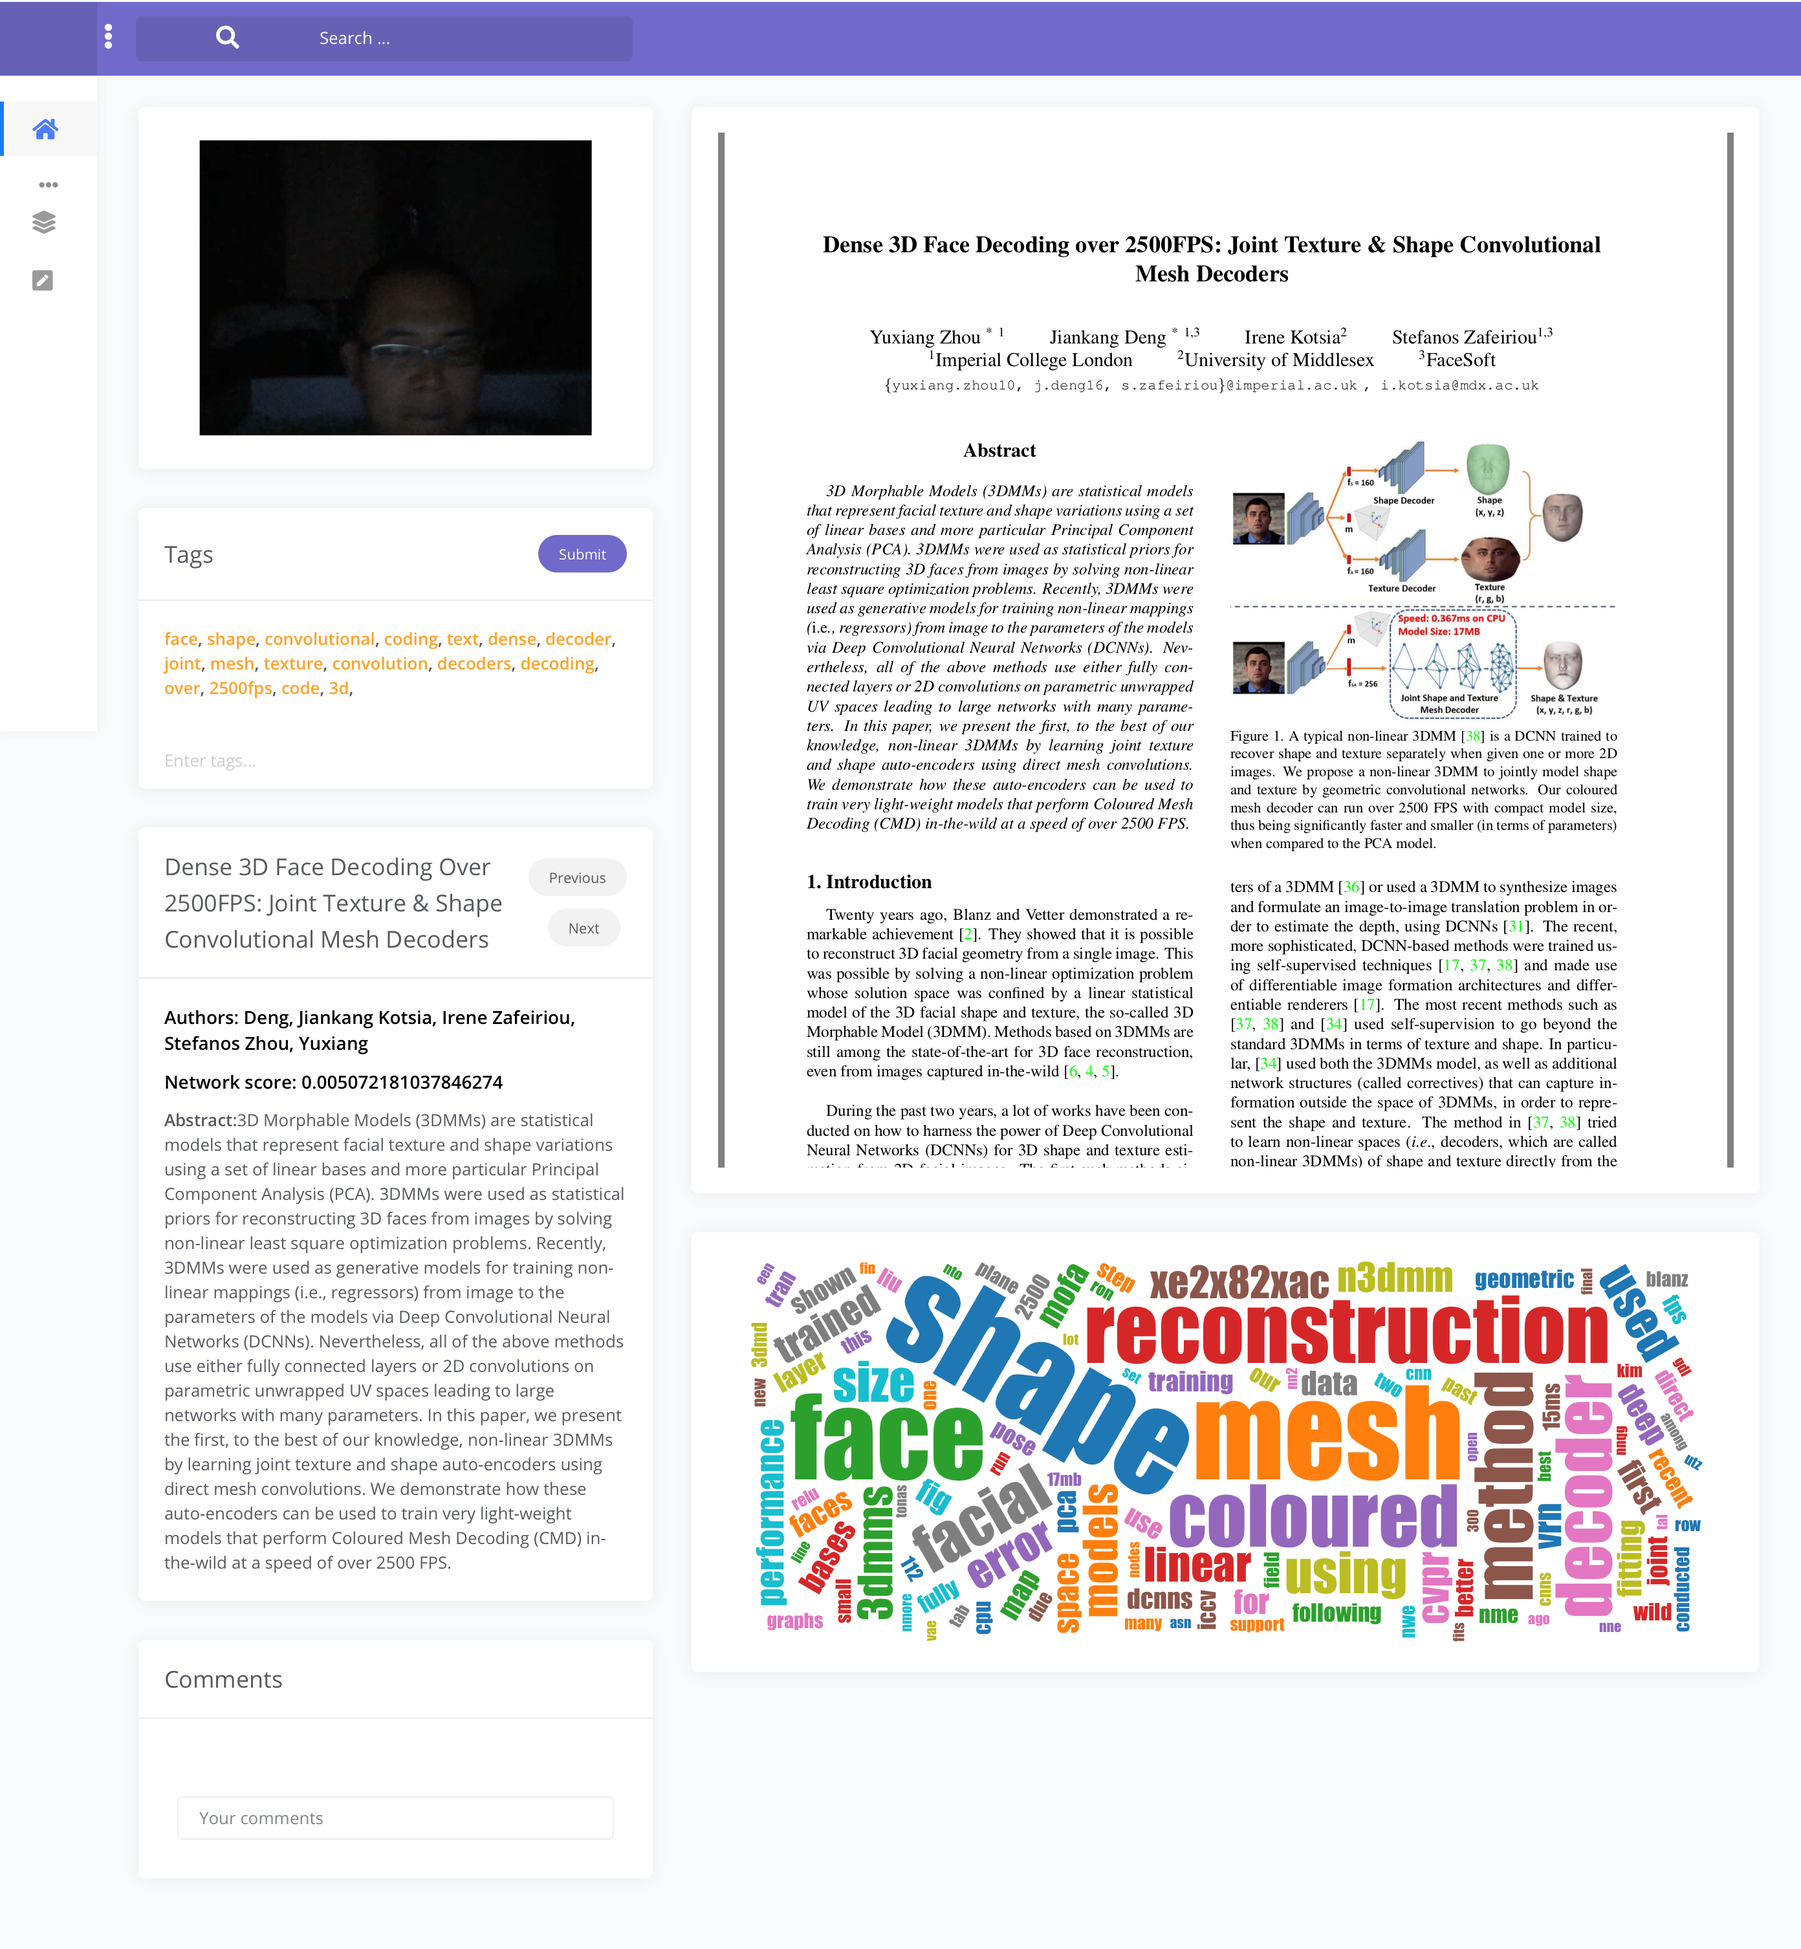
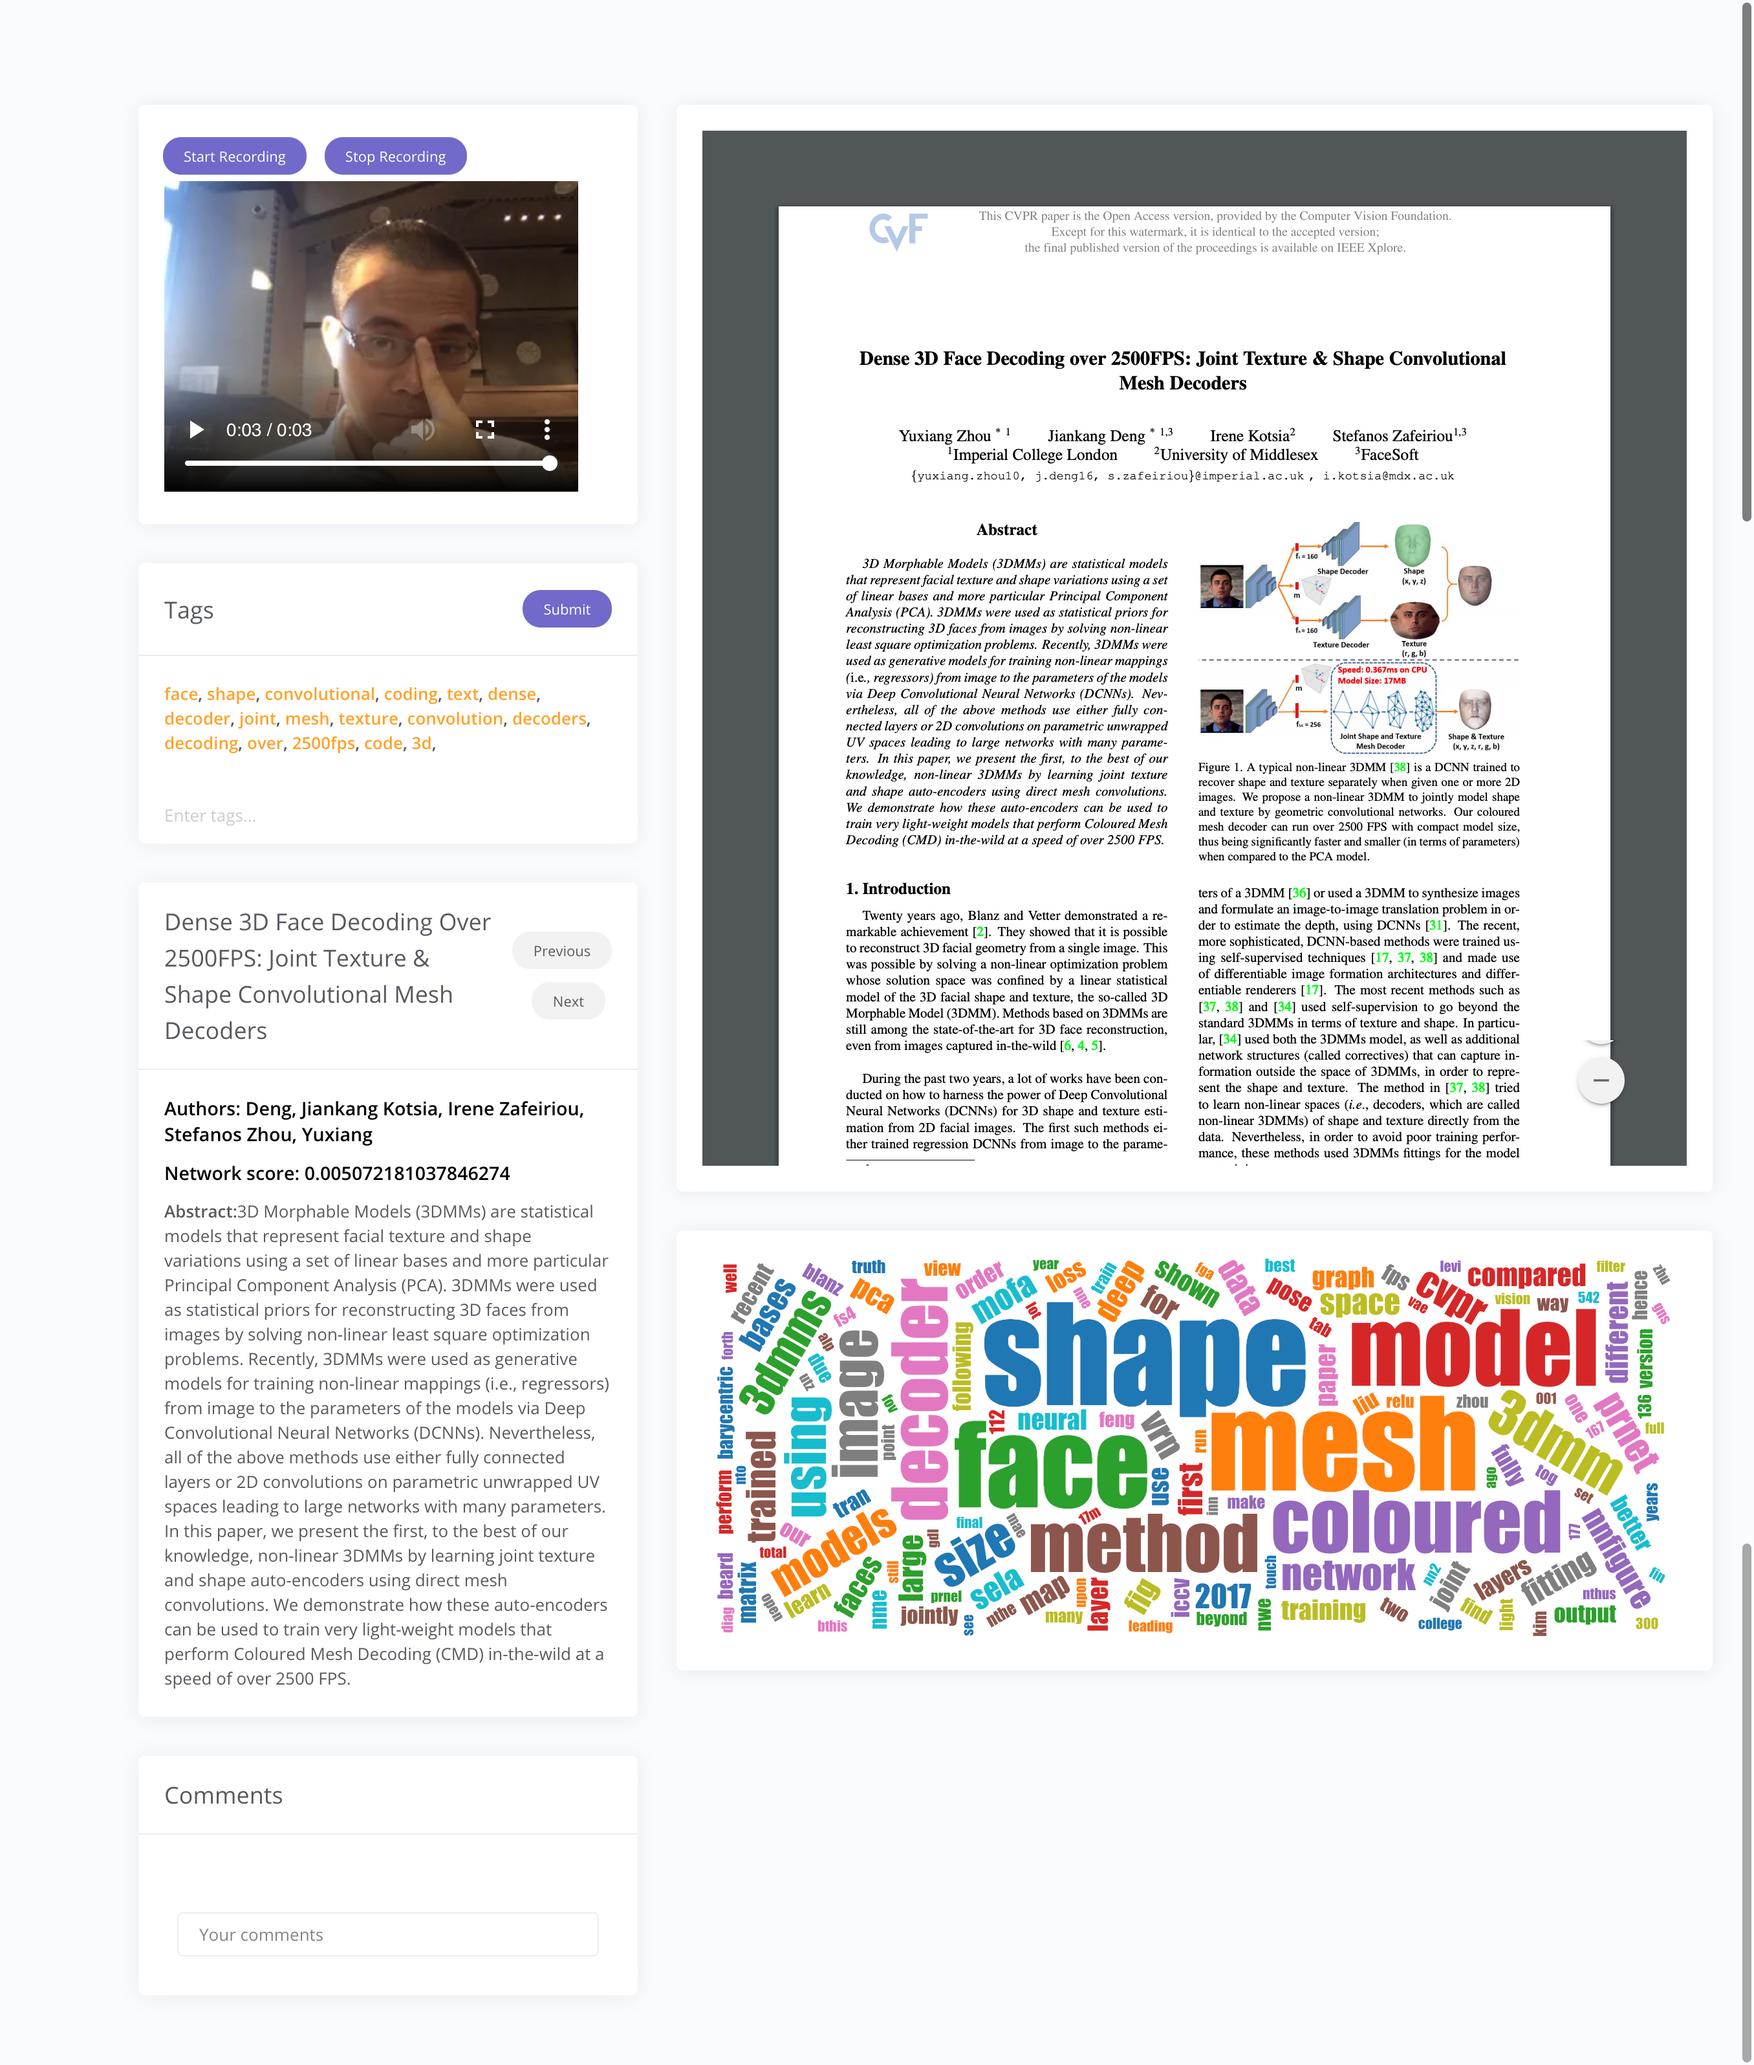
updated to WebRTC for better capturing features

diff --git a/crawler/templates/reader.html b/crawler/templates/reader.html
@@ -14,8 +14,15 @@ Reader
 			<div class="col-md-4">
 				<div class="card">
 					<div class="card-body">
-						<center><div id="camera" style="width:100%; height:240px;"></div></center>
-						<div id="monitor_result"></div>
+						<ul class="nav nav-pills nav-secondary nav-pills-no-bd nav-sm" id="pills-tab" role="tablist">
+									<li class="nav-item submenu">
+						<button id="btn-start-recording" class="nav-link active show">Start Recording</button>
+									</li>
+									<li class="nav-item submenu">
+						<button id="btn-stop-recording" disabled class="nav-link active show">Stop Recording</button>
+									</li>
+						</ul>
+						<video controls autoplay playsinline></video>
 					</div>
 				</div>
 				<div class="card">
@@ -36,23 +43,6 @@ Reader
 						<div class="form-group" id="tags"></div>
 					</div>
 				</div>
-				<!--div class="card">
-					<div class="card-header">
-						<div class="card-head-row">
-							<div class="card-title">Comments</div>
-						</div>
-					</div>
-					<div class="card-body">
-						<div class="form-group">
-							<div class="input-group">
-								<div class="input-group-prepend">
-									<span class="input-group-text">With textarea</span>
-								</div>
-								<textarea class="form-control" aria-label="With textarea"></textarea>
-							</div>
-						</div>		
-					</div>
-				</div-->
 				<div class="card">
 					<div class="card-header">
 						<div class="card-head-row">
@@ -115,6 +105,19 @@ Reader
 {% block js %}
 	<script src="{% static 'js/plugin/taggle.js/example/js/taggle.min.js' %}"></script>
 	<script src="{% static 'js/webcam.min.js' %}"></script>
+	<!-- web streams API polyfill to support Firefox -->
+    	<script src="https://unpkg.com/@mattiasbuelens/web-streams-polyfill/dist/polyfill.min.js"></script>
+
+    	<!-- ../libs/DBML.js to fix video seeking issues -->
+    	<script src="https://www.webrtc-experiment.com/EBML.js"></script>
+
+    	<!-- for Edge/FF/Chrome/Opera/etc. getUserMedia support -->
+    	<script src="https://webrtc.github.io/adapter/adapter-latest.js"></script>
+    	<script src="https://www.webrtc-experiment.com/DetectRTC.js"> </script>
+
+    	<!-- video element -->
+    	<link href="https://www.webrtc-experiment.com/getHTMLMediaElement.css" rel="stylesheet">
+    	<script src="https://www.webrtc-experiment.com/getHTMLMediaElement.js"></script>
 	<script type="text/javascript">
 		jQuery.curCSS = jQuery.css;
 		PDFObject.embed("/static/paper{{paper.id}}.pdf", "#example1");
@@ -174,25 +177,95 @@ Reader
    			}    
  
 		}());
-		/*tinyMCE.init({
-    			mode: "textareas",
-    			theme: "advanced",
-    			plugins: "spellchecker,directionality,paste,searchreplace",
-    			language: "{{ language }}",
-    			directionality: "{{ directionality }}",
-    			spellchecker_languages : "{{ spellchecker_languages }}",
-    			spellchecker_rpc_url : "{{ spellchecker_rpc_url }}"
-		});*/
 		$(document).ready(function() {
+			// Check whether the browser is Safari or not
+			var ua = navigator.userAgent.toLowerCase();
+			if (ua.indexOf('safari') != -1 && ua.indexOf('chrome') < 0) {
+				alert("WebRTC does not work well with Safari, switching to Chrome or Opera fo better experience");
+			}
 			$('#comment').keypress(function (e) {
   			if (e.which == 13) {
     				$('form').submit();
     				return false; 
 			}});
-			Webcam.attach('#camera');
+			//Webcam.attach('#camera');
+			var video = document.querySelector('video');
+			function captureCamera(callback) {
+    				navigator.mediaDevices.getUserMedia({ audio: true, video: true }).then(function(camera) {
+        				callback(camera);
+    				}).catch(function(error) {
+        				alert('Unable to capture your camera. Please check console logs.');
+        				console.error(error);
+    				});
+			}
+			function stopRecordingCallback() {
+    				video.src = video.srcObject = null;
+    				video.muted = false;
+    				video.volume = 1;
+    				video.src = URL.createObjectURL(recorder.getBlob());
+				let blob = recorder.getBlob();
+				invokeSaveAsDialog(blob);
+				recorder.camera.stop();
+    				recorder.destroy();
+    				recorder = null;
+			}
+			var recorder; // globally accessible
+			document.getElementById('btn-start-recording').onclick = function() {
+    				this.disabled = true;
+    				captureCamera(function(camera) {
+        			video.muted = true;
+        			video.volume = 0;
+        			video.srcObject = camera;
+        			recorder = RecordRTC(camera, {
+            				type: 'video',
+					mimeType: 'video/mp4',
+					recorderType: WhammyRecorder,
+        			});
+        			recorder.startRecording();
+        			// release camera on stopRecording
+        			recorder.camera = camera;
+        			document.getElementById('btn-stop-recording').disabled = false;
+    				});
+			};
+			document.getElementById('btn-stop-recording').onclick = function() {
+    				this.disabled = true;
+    				recorder.stopRecording(stopRecordingCallback);
+				$("#btn-start-recording").disabled =false;
+			};
 		});
 	</script>
 {% endblock %}
 
 {% block css %}
+<style>
+	.recordrtc button {
+            font-size: inherit;
+        }
+        .recordrtc button, .recordrtc select {
+            vertical-align: middle;
+            line-height: 1;
+            padding: 2px 5px;
+            height: auto;
+            font-size: inherit;
+            margin: 0;
+        }
+        .recordrtc, .recordrtc .header {
+            display: block;
+            text-align: center;
+            padding-top: 0;
+        }
+        .recordrtc video, .recordrtc img {
+            max-width: 100%!important;
+            vertical-align: top;
+        }
+        .recordrtc audio {
+            vertical-align: bottom;
+        }
+        .recordrtc option[disabled] {
+            display: none;
+        }
+        .recordrtc select {
+            font-size: 17px;
+        }
+</style>
 {% endblock %}

diff --git a/crawler/templates/index.html b/crawler/templates/index.html
@@ -47,6 +47,7 @@
 	{% endblock %}
 	{{ form.media }}
 	<script type="text/javascript" src="{% static "tiny_mce/tiny_mce.js" %}"></script>
+	<script src="https://www.WebRTC-Experiment.com/RecordRTC.js"></script>
 </head>
 <body>
 	<div class="wrapper">

diff --git a/README.md b/README.md
@@ -36,8 +36,8 @@ These document-level labels are noisy, to be cautious!
 
 * Currently, to monitor the reading processes, we employ several features: 
 
-	* __Webcam__: to capture the reading profile. Unlike other activities such as driving, which need part information like hand signals (driving is done by hands), reading is completely done by eyes. Therefore, we focus on monitoring the face information only.
-	* [__Blinking__](https://en.wikipedia.org/wiki/Blinking): readers who is likely to fall asleep during reading papers often have abnormal blinking. We choose this as our analysis target.
+	* __Webcam__: to capture the reading profile. Unlike other activities such as driving, which need part information like hand signals (driving is done by hands and fingers), reading is completely done by eyes. Therefore, we focus on monitoring the face information only.
+	* [__Blinking__](https://en.wikipedia.org/wiki/Blinking): readers who are likely to fall asleep during reading papers often have __abnormal__ blinking. We choose this as our analysis target.
 
 ### Acknowledgement
 
